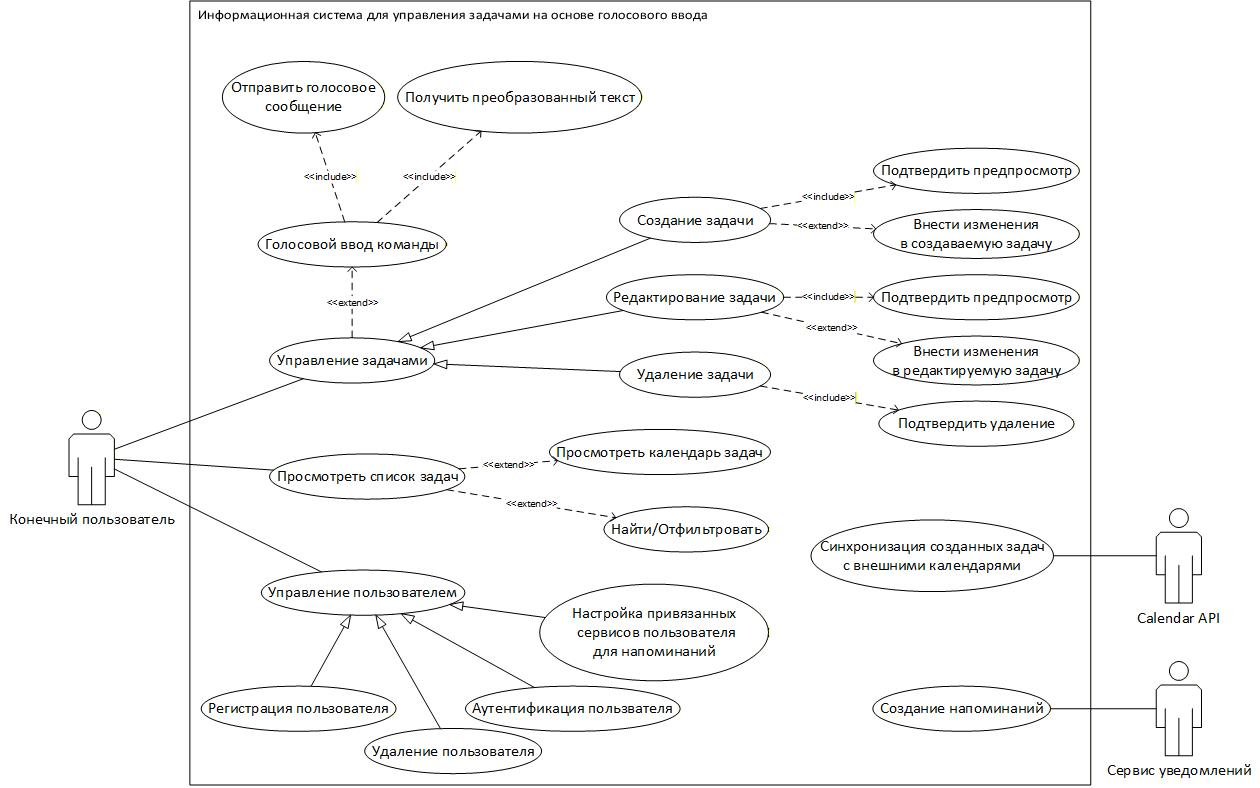
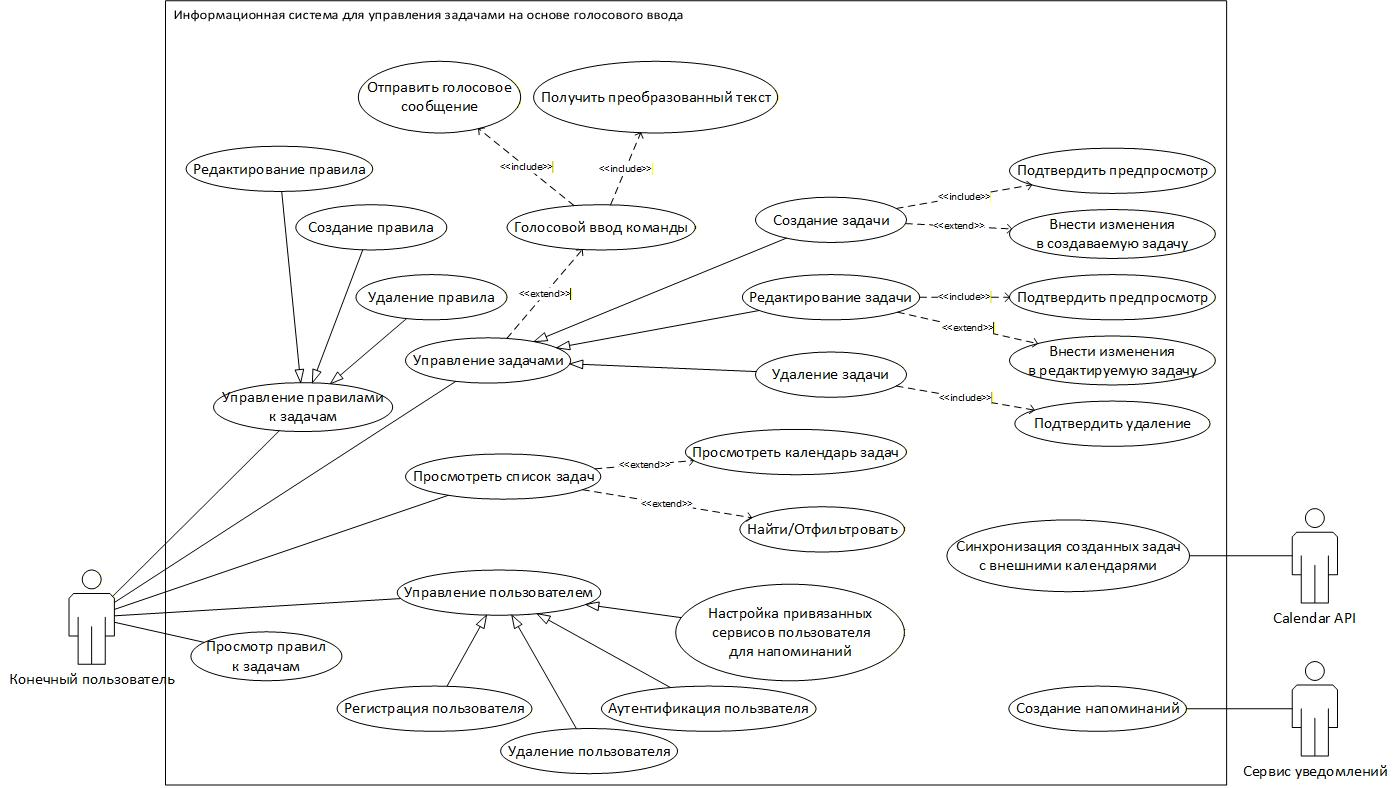
docs: добавление функциональных требований с добавление правил к задачам

diff --git a/Lab Work №1/docs/Лабораторная работа №1.md b/Lab Work №1/docs/Лабораторная работа №1.md
@@ -33,7 +33,6 @@
 5. Создание напоминаний
 	1. Создание напоминаний в мессенджере Телеграм.
 	2. Создание напоминаний на почте.
-	3. Создание напоминаний в push уведомлении.
 6. Просмотр и фильтрация задач
 	1. Отображение списка задач.
 	2. Отображение созданных задач в виде календаря.
@@ -44,7 +43,14 @@
 	3. Аутентификация пользователя.
 	4. Настройка привязанных сервисов для напоминаний.
 8. Интеграция с внешними сервисами
-	1. Синхронизация созданных задач с внешними календарями (Google, Mail).
+	1. Синхронизация созданных задач с внешними календарями (Yandex).
+9. Интеллектуальная обработка задач с помощью Rule Engine
+	1. Автоматическое применение правил на основе распознанного текста и извлечённых сущностей.
+	2. Возможность создания, редактирования и удаления правил через веб-интерфейс или админ-панель.
+	3. Возможность просмотра правил в веб-интерфейсе.
+	4. Каждое правило должно включать: триггер (WHEN), условие (IF) и действие (THEN).
+	5. Возможность задания приоритетов правил для предотвращения конфликтов.
+	6. Автоматическое выполнение действий: напоминания, автозаполнение полей задачи, синхронизация с календарём, уведомления.
 ## Диаграмма вариантов использования
 
 ![UseCase](./images/USECASEVKR.jpg)
@@ -52,27 +58,25 @@
 
 1. Изначально система должна ориентироваться на десятки или сотни пользователей, в будущем возможно система будет расширяться, потребуется возможность масштабирования вычислительных ресурсов.
 2. Появление новых популярных календарей потребует процесса интеграции, требуется создать масштабируемую архитектуру, которая позволит быстро подстроиться под новые инструменты.
-3. Большинство голосовых помощников отправляет голосовые сообщения на сервисы крупных компаний, что может привести к утечке конфиденциальной информации. В разрабатываемой системе следует позаботиться о защите конфиденциальной информации.
-4. Доступ к аккаунту и данным должен быть защищен. Все пароли должны храниться в хешированном виде.
+3. Доступ к аккаунту и данным должен быть защищен. Все пароли должны храниться в хешированном виде.
 ## Перечень нефункциональных требований
 
 1. Производительность
 	1. Время обработки голосового запроса не должно превышать **3 секунд** для 95% запросов.
-	2. Точность автоматического распознавания речи для русскоязычных команд, относящихся к управлению задачами, должна составлять не менее 94%.
+	2. Точность автоматического распознавания речи для русскоязычных команд, относящихся к управлению задачами, должна составлять не менее 80%.
 2. Гибкость и расширяемость
 	1. Система должна быть спроектирована так, чтобы добавление новых сервисов для синхронизации (помимо Google Календаря) требовало минимальных усилий и не затрагивало основную логику приложения.
-	2. Система должна быть способна одновременно обслуживать до 1000 активных пользователей.
+	2. Система должна быть способна одновременно обслуживать до 100 активных пользователей.
 	3. Архитектура системы должна позволять масштабирование для обработки увеличенной нагрузки.
 3. Безопасность
-	1. Все аутентификационные данные должны храниться в зашифрованном виде.
-	2. Система должна быть спроектирована таким образом, чтобы минимизировать риски утечки конфиденциальной информации пользователя, содержащейся в голосовых сообщениях и производных от них данных.
+	1. Все аутентификационные данные и конфиденциальная информация пользователя (в том числе голосовые сообщения) должны храниться в зашифрованном виде.
 4. Обработка ошибок
 	1. Система должна корректно обрабатывать недоступность внешних сервисов.
 	2. Система должна адекватно обрабатывать потерю сетевого соединения, уведомлять пользователя и принимать попытки переподключения.
 
 Ключевые требования (5):
-1. Точность автоматического распознавания речи для русскоязычных команд, относящихся к управлению задачами, должна составлять не менее 94%.
+1. Точность автоматического распознавания речи для русскоязычных команд, относящихся к управлению задачами, должна составлять не менее 80%.
 2. Система должна быть спроектирована так, чтобы добавление новых сервисов для синхронизации (помимо Google Календаря) требовало минимальных усилий и не затрагивало основную логику приложения.
 3. Архитектура системы должна позволять масштабирование для обработки увеличенной нагрузки.
-4. Система должна быть спроектирована таким образом, чтобы минимизировать риски утечки конфиденциальной информации пользователя, содержащейся в голосовых сообщениях и производных от них данных.
+4. Все аутентификационные данные и конфиденциальная информация пользователя (в том числе голосовые сообщения) должны храниться в зашифрованном виде.
 5. Система должна корректно обрабатывать недоступность внешних сервисов.
